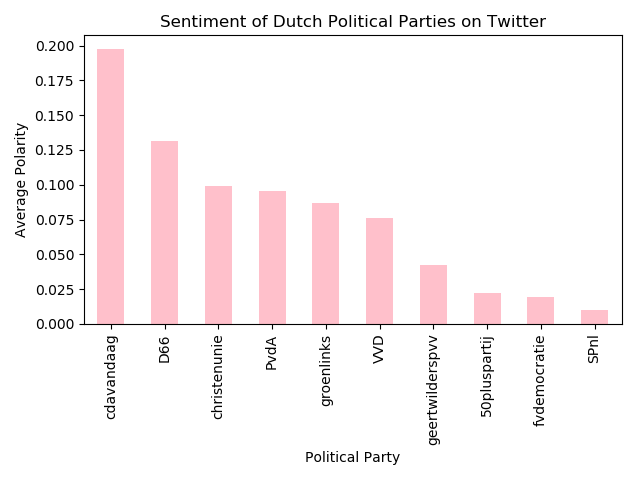
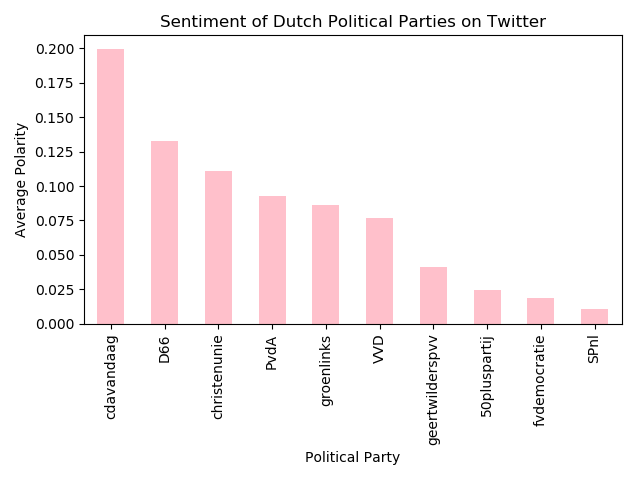
Remove emoji's from tweets

diff --git a/process_tweets.py b/process_tweets.py
@@ -1,11 +1,12 @@
 import re
-import nltk
 import string
 import pandas as pd
 import matplotlib.pyplot as plt
 from pattern.text.nl import sentiment
 from collections import Counter
+import demoji
 
+# demoji.download_codes()
 
 # https://eikhart.com/blog/dutch-stopwords-list
 with open('stopwords.txt', 'r') as f:
@@ -15,7 +16,7 @@ pd.set_option('max_colwidth', 200)
 pd.set_option('display.max_columns', 10)
 pd.set_option('display.max_rows', 10)
 
-tweets = pd.read_csv("tweets.csv")
+tweets = pd.read_csv("tweets.csv", encoding='utf-8')
 print(tweets['political_party'].value_counts())  # Count tweets per party
 
 
@@ -25,7 +26,8 @@ def clean_tweets(tweet):
     tweet = tweet.lower() # String to lower case
     tweet = re.sub("@[A-Za-z0-9]+","", tweet) # Remove mentions
     tweet = re.sub("http\S+", "", tweet) # Remove links
-    tweet = tweet.translate(None, string.punctuation) # Remove punctuation
+    tweet = re.sub(r'[^\w\s]', '', tweet) # Remove punctuation
+    tweet = demoji.replace(tweet, "")
     tweet = tweet.replace("\n", " ") # Remove new lines
 
     return tweet
